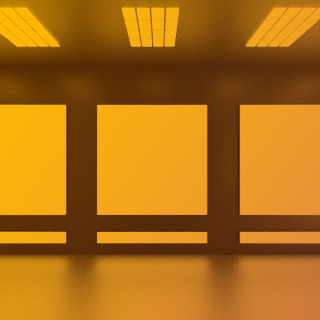
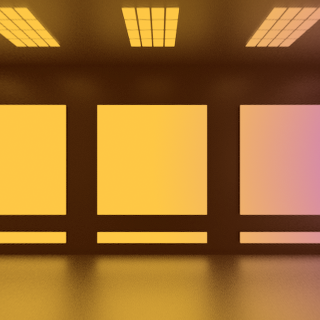
Styling

diff --git a/pages/index.tsx b/pages/index.tsx
@@ -14,15 +14,30 @@ import {
   EffectComposer,
   Scanline,
   Sepia,
+  Bloom,
 } from "@react-three/postprocessing";
-import { GlitchMode, BlendFunction } from "postprocessing";
+import { GlitchMode, BlendFunction, Resizer, KernelSize } from "postprocessing";
 
 const Home: NextPage = () => {
   return (
     <div style={{ background: "black", width: "100vw", height: "100vh" }}>
       <div
         style={{
-          background: "#111",
+          background: "url(glitter.gif)",
+          backgroundSize: "cover",
+          opacity: 1,
+          filter: "blur(10px)",
+          mixBlendMode: "screen",
+          position: "absolute",
+          left: 0,
+          top: 0,
+          width: "100%",
+          height: "100%",
+        }}
+      />
+      <div
+        style={{
+          backgroundColor: "#0d1218",
           top: "50%",
           left: "50%",
           width: "50vh",
@@ -30,42 +45,132 @@ const Home: NextPage = () => {
           marginTop: "-35vh",
           marginLeft: "-25vh",
           position: "absolute",
-          borderRadius: "30vh 30vh 20px 20px",
+          borderRadius: "30vh 30vh 10px 10px",
           overflow: "hidden",
-          display: "flex",
-          flexDirection: "column",
         }}
       >
         <div
           style={{
-            boxShadow: "inset 0 0 0 1px #666",
-            margin: "3vh",
-            flex: 1,
-            borderRadius: "30vh 30vh 8px 8px",
+            background: "url(glitter.gif)",
+            mixBlendMode: "screen",
+            position: "absolute",
+            left: 0,
+            top: 0,
+            width: "100%",
+            height: "100%",
           }}
-        ></div>
-        <div style={{ backgroundColor: "yellow" }}>MAD REALITIES SEASON 0</div>
-      </div>
-      <Canvas dpr={2}>
-        <Suspense fallback={null}>
-          <Scene />
-          <OrbitControls
-            minPolarAngle={Math.PI / 2}
-            maxPolarAngle={Math.PI / 2}
-            enablePan={false}
-          />
-          <EffectComposer>
-            <Glitch
-              delay={[3, 10]} // min and max glitch delay
-              duration={[0.6, 1.0]} // min and max glitch duration
-              strength={[0.3, 1.0]} // min and max glitch strength
-              mode={GlitchMode.SPORADIC} // glitch mode
-              active // turn on/off the effect (switches between "mode" prop and GlitchMode.DISABLED)
-              ratio={0} // Threshold for strong glitches, 0 - no weak glitches, 1 - no strong glitches.
+        />
+        <Canvas dpr={2} style={{ position: "absolute" }}>
+          <Suspense fallback={null}>
+            <Scene />
+            <OrbitControls
+              minPolarAngle={Math.PI / 2}
+              maxPolarAngle={Math.PI / 2}
+              enablePan={false}
+              enableZoom={false}
             />
-          </EffectComposer>
-        </Suspense>
-      </Canvas>
+            <EffectComposer>
+              <Glitch
+                delay={[3, 10]} // min and max glitch delay
+                duration={[0.6, 1.0]} // min and max glitch duration
+                strength={[0.3, 1.0]} // min and max glitch strength
+                mode={GlitchMode.SPORADIC} // glitch mode
+                active // turn on/off the effect (switches between "mode" prop and GlitchMode.DISABLED)
+                ratio={0} // Threshold for strong glitches, 0 - no weak glitches, 1 - no strong glitches.
+              />
+              <Bloom
+                intensity={0.5} // The bloom intensity.
+                blurPass={undefined} // A blur pass.
+                width={Resizer.AUTO_SIZE} // render width
+                height={Resizer.AUTO_SIZE} // render height
+                kernelSize={KernelSize.LARGE} // blur kernel size
+                luminanceThreshold={0.5} // luminance threshold. Raise this value to mask out darker elements in the scene.
+                luminanceSmoothing={0.025} // smoothness of the luminance threshold. Range is [0, 1]
+              />
+            </EffectComposer>
+          </Suspense>
+        </Canvas>
+        <div
+          style={{
+            position: "absolute",
+            width: "100%",
+            height: "100%",
+            display: "flex",
+            flexDirection: "column",
+            pointerEvents: "none",
+          }}
+        >
+          <div
+            style={{
+              boxShadow: "inset 0 0 0 1px #fff2bd",
+              margin: "2vh",
+              flex: 1,
+              borderRadius: "30vh 30vh 8px 8px",
+              overflow: "hidden",
+            }}
+          ></div>
+          <div
+            style={{
+              color: "#fff2bd",
+              fontFamily: "Pilowlava",
+              fontSize: "5vh",
+              textTransform: "uppercase",
+              padding: "0 2vh 2vh 2vh",
+              position: "relative",
+            }}
+          >
+            Mad Realities
+            <div
+              style={{
+                fontFamily: "system-ui",
+                fontSize: "1vh",
+                position: "absolute",
+                right: "2vh",
+                textAlign: "right",
+                bottom: "2vh",
+                fontWeight: 600,
+              }}
+            >
+              SEASON 0 PASS
+              <br />
+              LIMITED AVAILABILITY
+            </div>
+          </div>
+          <div
+            style={{
+              fontFamily: "system-ui",
+              padding: "2vh",
+              backgroundColor: "#d39bff",
+              color: "#490081",
+              fontWeight: 600,
+              fontSize: "3vh",
+              display: "flex",
+              flexDirection: "column",
+            }}
+          >
+            <span style={{ borderTop: "1px solid", paddingTop: "0.5vh" }}>
+              UNIQUE ¹⁄₁
+            </span>
+            <div
+              style={{
+                fontSize: "0.5vh",
+                position: "absolute",
+                width: "14vh",
+                overflow: "hidden",
+                right: "2vh",
+                textAlign: "justify",
+                bottom: "2vh",
+                fontWeight: 400,
+                letterSpacing: -0.1,
+              }}
+            >
+              Put some random text in here, not sure if it needs to say anything
+              or if it is just cool to have little tiny text everywhere. It
+              kinda seems like the latter~
+            </div>
+          </div>
+        </div>
+      </div>
     </div>
   );
 };
@@ -83,7 +188,7 @@ function Scene() {
   const ref = useRef<THREE.Group>();
   useFrame(({ clock }) => {
     const a = clock.getElapsedTime();
-    ref.current!.rotation.y = a / 10;
+    ref.current!.rotation.y = (Math.sin(a) - 0.5) / 4;
   });
   return (
     <group ref={ref}>
@@ -91,8 +196,9 @@ function Scene() {
         geometry={geometry}
         material-envMap={envMap}
         material-reflectivity={1}
-        scale={8}
-        position={[0, 0, -2]}
+        scale={13}
+        position={[0, 0, -3.5]}
+        rotation={[0.2, 0, 0]}
       />
     </group>
   );

diff --git a/styles/globals.css b/styles/globals.css
@@ -14,3 +14,11 @@ a {
 * {
   box-sizing: border-box;
 }
+
+@font-face {
+  font-family: "Pilowlava";
+  src: url("/Pilowlava-Regular.woff");
+  font-style: normal;
+  font-weight: 400;
+  font-display: swap;
+}
